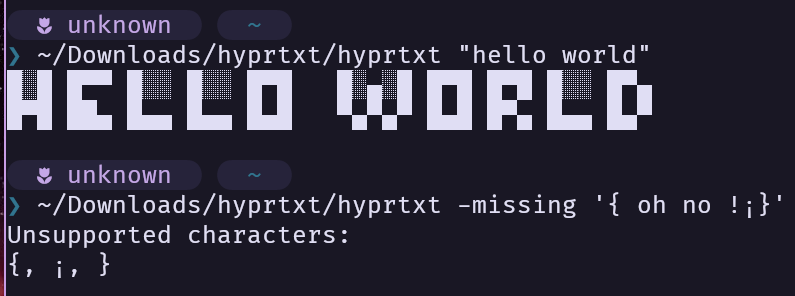
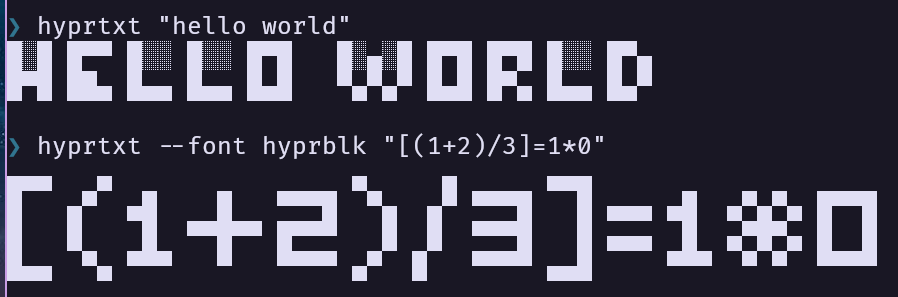
Updated screenshot, readme.

Changed region(s): [[0.0, 0.0, 0.9962, 1.0], [0.3019, 0.5777, 0.3321, 0.6081]]

diff --git a/README.md b/README.md
@@ -52,7 +52,7 @@ hyprtxt [options] [text]
 Unsupported characters:
 {, ¡, }
 
-% hyprtxt --figlet > hyprfont.flf
+% hyprtxt --figlet > hyprtxt.flf
 ```
 
 Screenshot. Font is [FiraCode Nerd Font Mono](https://github.com/tonsky/FiraCode).
